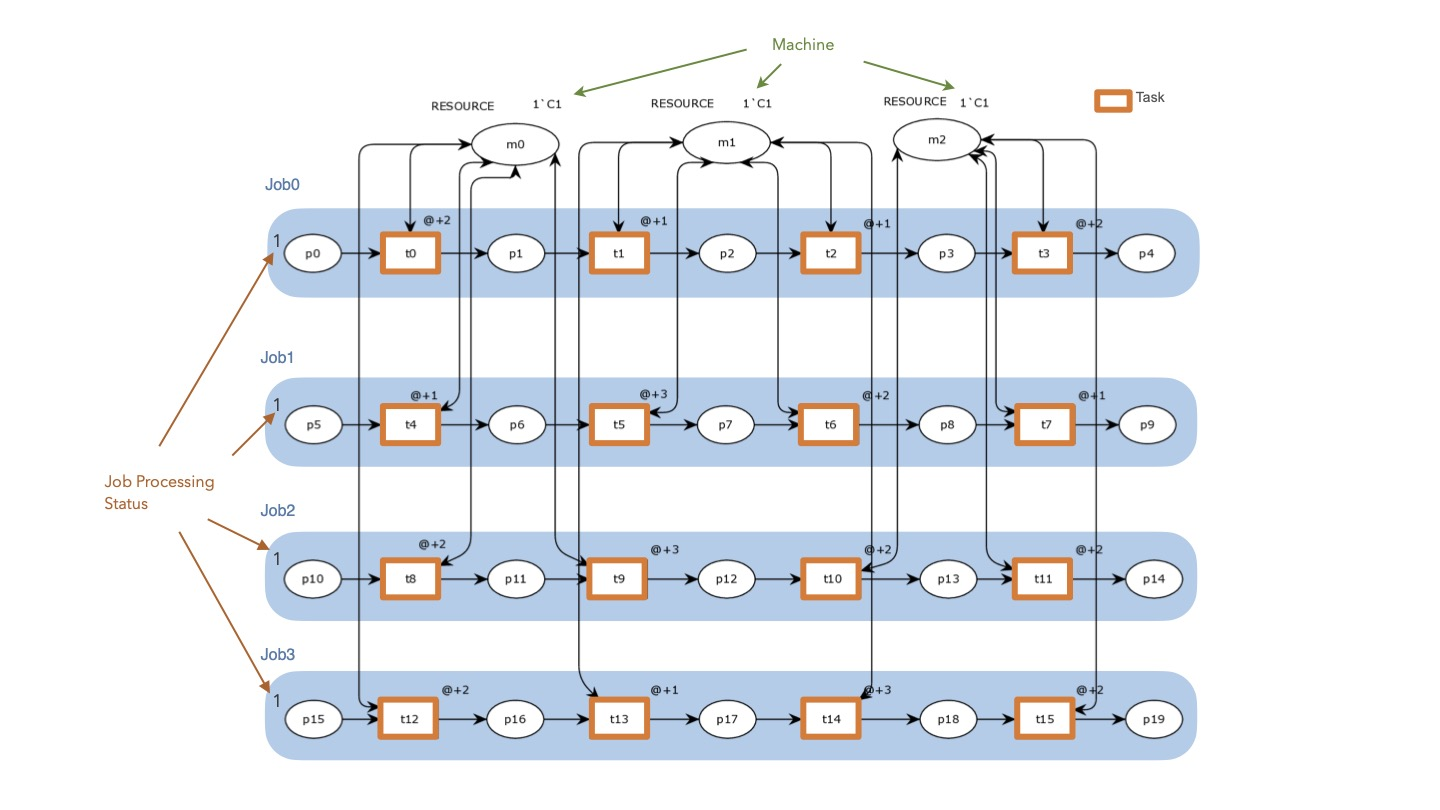
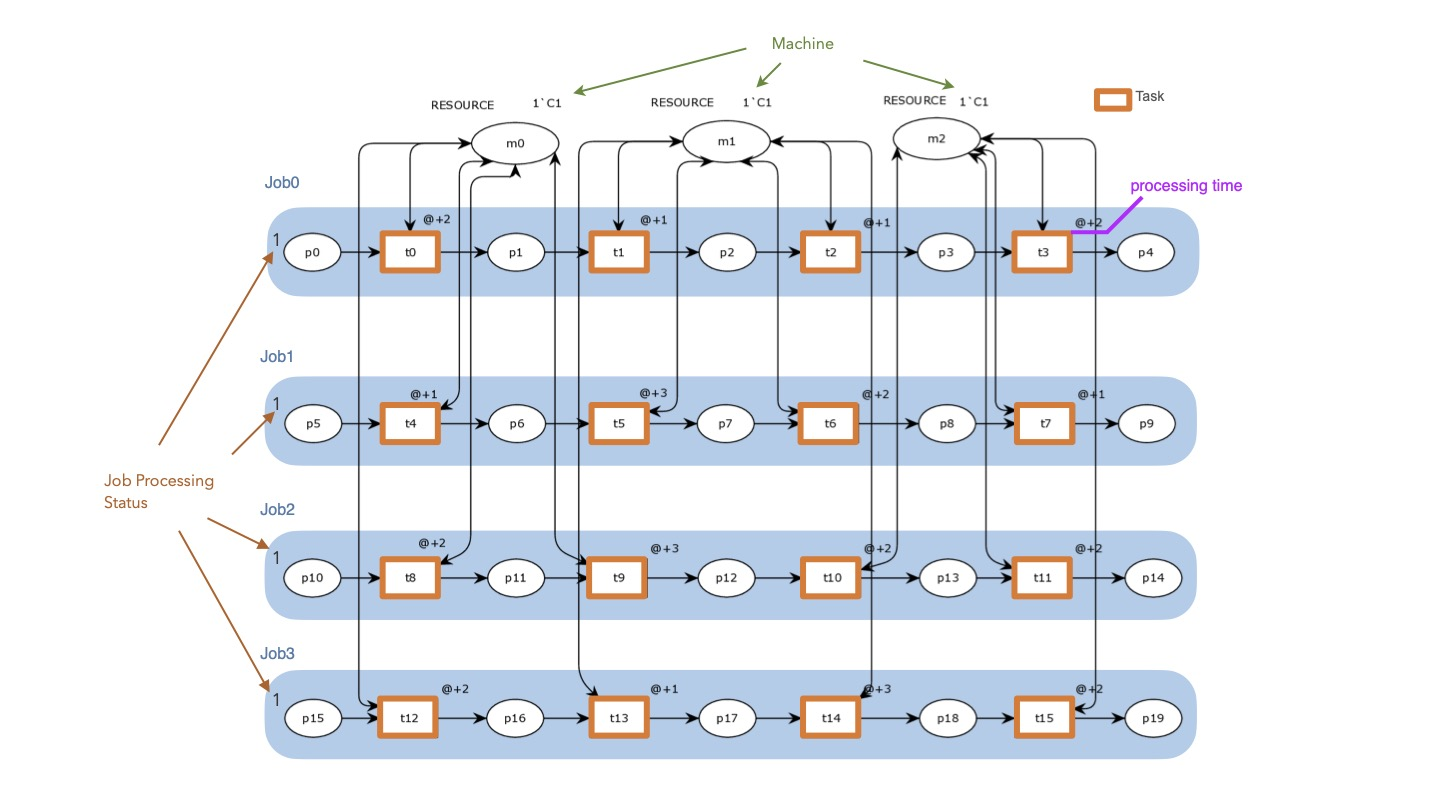
update readme

diff --git a/README.md b/README.md
@@ -98,6 +98,7 @@ E.g.) Jobs = 4, Each Task = 4, Resources = 3
 - Transitions: Task
 
   - Fires when a machine processes a task and stops firing when it finishes.
+  - The firing time is set for each task as `processing time`.
 
 - Place: Representation of system state and required resources.
 
